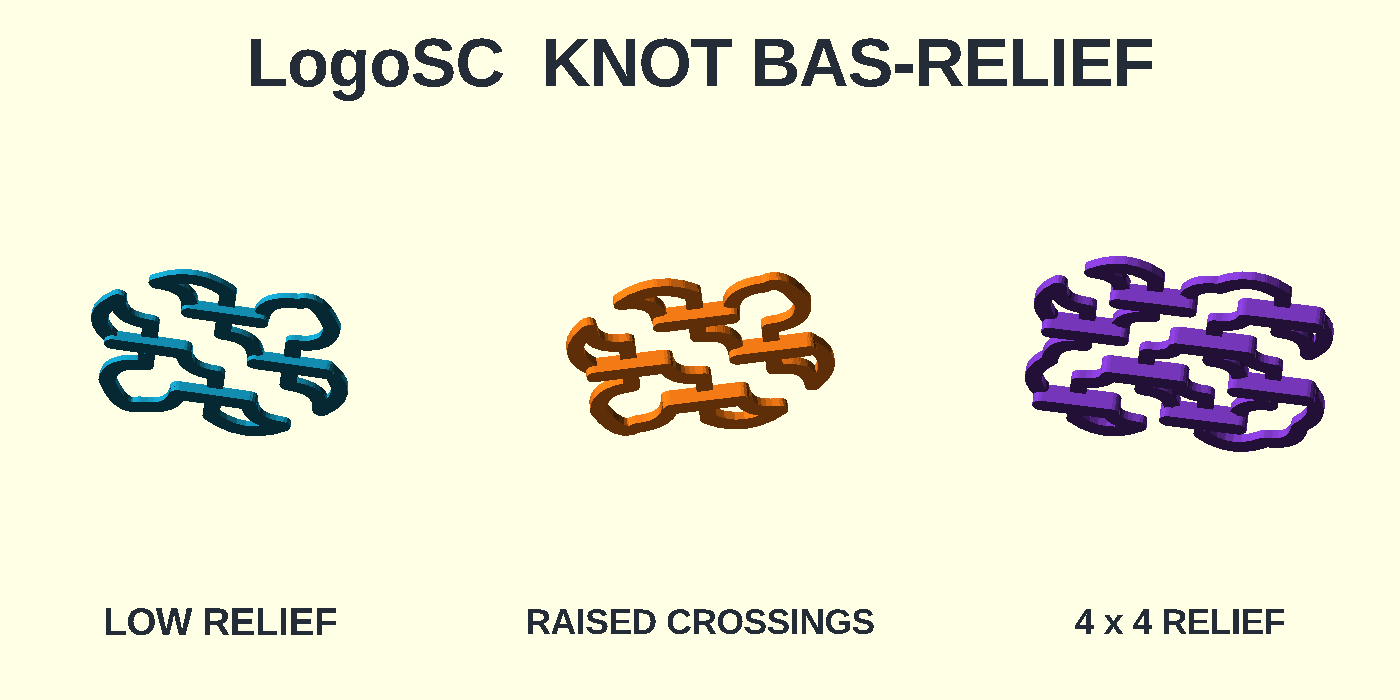
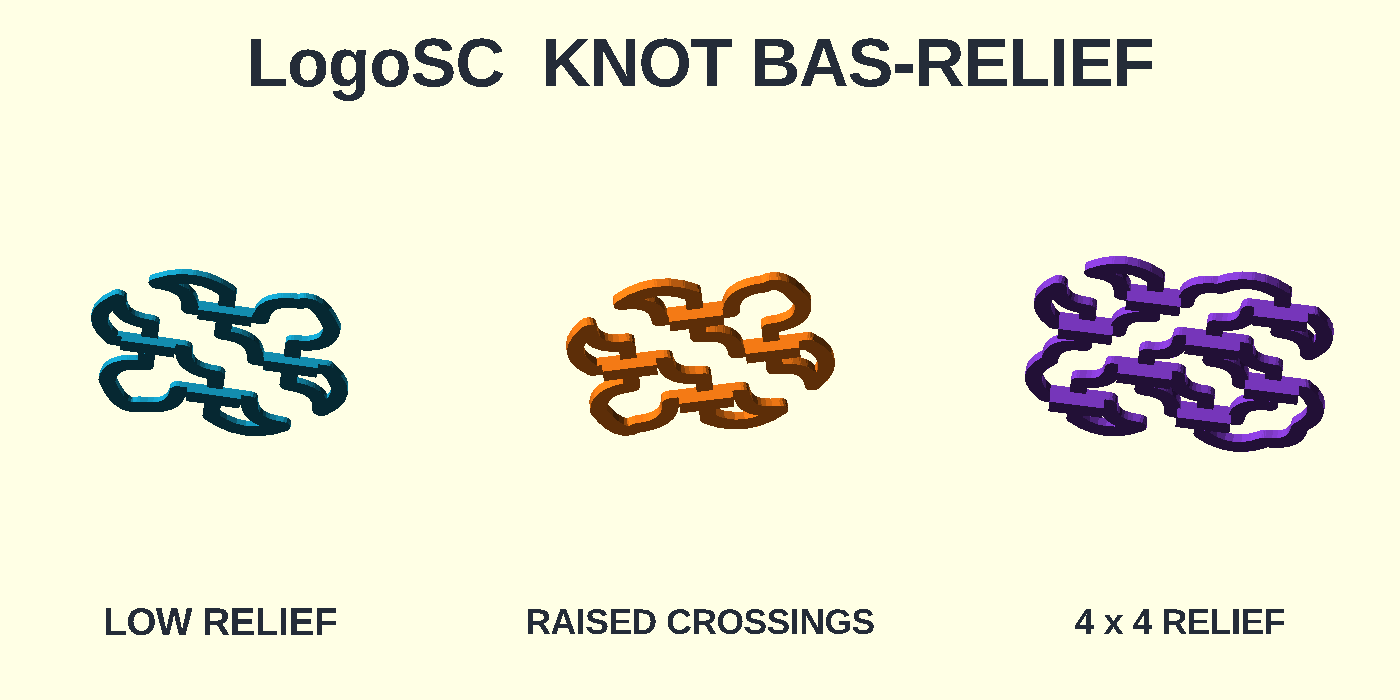
Replace knot crossing capsules with flat-ended bands

diff --git a/README.md b/README.md
@@ -312,10 +312,11 @@ RenderKnotRibbons2D(
 ```
 
 `KnotRibbonRegions()` converts every sampled segment into a closed rounded capsule
-`MakeRegion()`. Crossing masks are expanded capsules aligned with the recorded over branch.
-The renderer subtracts those masks from the continuous ribbon union, then restores normal-width
-overpass regions. Every region reaches OpenSCAD through LogoSC Core's `RenderRegion2D()`; native
-OpenSCAD performs only the final union and difference.
+`MakeRegion()`. Crossing masks are expanded flat-ended bands aligned with the recorded over
+branch. The renderer subtracts those masks from the continuous ribbon union, then restores
+slightly longer normal-width bands. Their controlled overlap reconnects to the source route
+without exposing rounded capsule caps. Every region reaches OpenSCAD through LogoSC Core's
+`RenderRegion2D()`; native OpenSCAD performs only the final union and difference.
 
 ![LogoSC planar knot ribbons and underpass masks](images/knot-ribbon-gallery.png)
 
@@ -339,9 +340,10 @@ RenderKnotBasRelief(
 ```
 
 The masked ribbon forms the continuous base layer. Every recorded overpass is then extruded from
-`baseHeight` to `baseHeight + overpassHeight`. Restored overpass footprints extend beyond their
-subtraction masks and overlap the source ribbon, eliminating the isolated oval-tab appearance
-while retaining side clearance above the underpassing ribbon.
+`baseHeight` to `baseHeight + overpassHeight`. Restored flat-ended overpass footprints extend
+beyond their subtraction masks and overlap the source ribbon, eliminating both isolated
+oval-tab ends and curve-to-overpass gaps while retaining side clearance above the underpassing
+ribbon.
 
 ![LogoSC printable knot bas-relief](images/knot-bas-relief-gallery.png)
 

diff --git a/LogoSC-Knots-Design.md b/LogoSC-Knots-Design.md
@@ -655,8 +655,8 @@ wraps it with Core's `MakeRegion()`. The union of segment regions gives continuo
 rounded sampled joins without forcing a self-crossing route into one invalid polygon contour.
 
 For each crossing, the compiler interpolates the recorded over branch and its planar tangent.
-`KnotRibbonCrossingMaskRegions()` creates an expanded capsule along that tangent;
-`KnotRibbonOverpassRegions()` creates the corresponding normal-width capsule.
+`KnotRibbonCrossingMaskRegions()` creates an expanded flat-ended band along that tangent;
+`KnotRibbonOverpassRegions()` creates a slightly longer normal-width flat-ended band.
 `RenderKnotRibbons2D()` subtracts the expanded masks from the union of continuous ribbon regions
 and then restores every overpass. All footprints and masks are rendered by
 `RenderRegion2D()` before native OpenSCAD performs the Boolean composition.
@@ -684,8 +684,9 @@ This is robust and visually explicit, though it does not create a truly separate
 most `0.01` to avoid relying on exactly coplanar shell contact without changing external height.
 
 Before extrusion, the restored overpass span is extended beyond the expanded subtraction mask.
-The restored ends overlap the source ribbon, eliminating isolated capsule halos while preserving
-clearance along the underpass sides.
+Its flat ends overlap the source ribbon inside the straight crossing segment. This eliminates
+isolated capsule halos and curve-to-overpass gaps while preserving clearance along the underpass
+sides.
 
 The bare result is positive printable geometry with no backing plate. Separate link components
 remain separate solids unless a caller supplies support or uses the plaque renderer.

diff --git a/LogoSC-User-Manual.md b/LogoSC-User-Manual.md
@@ -1411,9 +1411,10 @@ For every recorded crossing:
 
 1. the compiler finds the recorded over branch and its normalized parameter;
 2. it interpolates the branch center and planar tangent;
-3. `KnotRibbonCrossingMaskRegions()` constructs an expanded capsule aligned with that branch;
+3. `KnotRibbonCrossingMaskRegions()` constructs an expanded flat-ended band aligned with that
+   branch;
 4. the renderer subtracts all expanded masks from the continuous ribbon union;
-5. `KnotRibbonOverpassRegions()` restores normal-width overpass capsules.
+5. `KnotRibbonOverpassRegions()` restores slightly longer, normal-width, flat-ended bands.
 
 The white space beside a restored overpass is therefore a real geometric cut through the
 underpassing footprint. `crossingClearance` expands the mask radially beyond the normal ribbon
@@ -1453,9 +1454,10 @@ model layout and tests. A hidden overlap of at most `0.01` joins raised overpass
 the base instead of leaving exactly coplanar touching shells; it does not change the external
 height.
 
-The restored overpass is deliberately longer than its expanded subtraction mask. Its ends
+The restored overpass is deliberately longer than its expanded subtraction mask. Its flat ends
 overlap the uninterrupted source ribbon, so clearance remains visible along the sides of the
-crossing without leaving an isolated oval or capsule-shaped tab.
+crossing without leaving an isolated oval, a capsule-shaped tab, or a triangular gap where the
+next route section begins to curve.
 
 ![LogoSC printable knot bas-relief](images/knot-bas-relief-gallery.png)
 

diff --git a/LogoSC-Developer-Notebook.md b/LogoSC-Developer-Notebook.md
@@ -3212,3 +3212,29 @@ Verification boundary:
   the knot suite from 74 to 76.
 - Add a compact/rounded/4-by-4 gallery, a reproducible PNG command, a representative manifold
   STL, and the complete repository acceptance suites.
+
+### 2026-07-29 — Flat-ended crossing bands
+
+Context:
+
+- The crossing mask and restored overpass were straight capsules aligned to the tangent at the
+  crossing center.
+- On an 8-unit Celtic tile, their rounded longitudinal caps extended into the neighboring curved
+  tile. The expanded mask could remove part of that curve that the narrower restored capsule did
+  not cover, leaving triangular gaps. The raised capsule caps also remained visibly bulbous.
+
+Decision:
+
+- Keep ordinary sampled ribbon segments as rounded capsules so route joins stay smooth.
+- Use oriented rectangles for crossing-local subtraction masks and restored overpass footprints.
+- Size the restored band one clearance distance beyond each mask end. This provides explicit
+  overlap while keeping both ends inside the straight crossing segment for the documented Celtic
+  examples.
+- Preserve the established region APIs and native final Boolean composition.
+
+Verification boundary:
+
+- Add a deterministic result for the four-point flat-ended contour and update span accounting,
+  bringing the knot suite from 76 to 77.
+- Regenerate the ribbon, bare-relief, and plaque galleries and require complete repository suites
+  plus a simple CGAL plaque STL.

diff --git a/CHANGELOG.md b/CHANGELOG.md
@@ -93,6 +93,11 @@
   printable relief plaques.
 - Added optional independent plaque and raised-knot preview colors, with contrasting Customizer
   defaults. Color remains presentation metadata and does not affect printable STL geometry.
+- Replaced crossing-local capsule masks and restored capsule overpasses with flat-ended oriented
+  bands. The shorter mask remains inside the crossing segment, while the longer restored band
+  overlaps the source ribbon, removing curved-junction gaps and visible rounded top caps.
+- Added a focused flat-end contour result, bringing the knot suite to 77, and regenerated the
+  ribbon, bas-relief, and relief-plaque galleries.
 - Added `Ribbon` Customizer output and a `RibbonGallery` comparing continuous regions,
   underpass-mask interlace, and a 4-by-4 Celtic ribbon grid.
 - Added a side-by-side User Manual comparison clarifying that braids generate crossing topology
